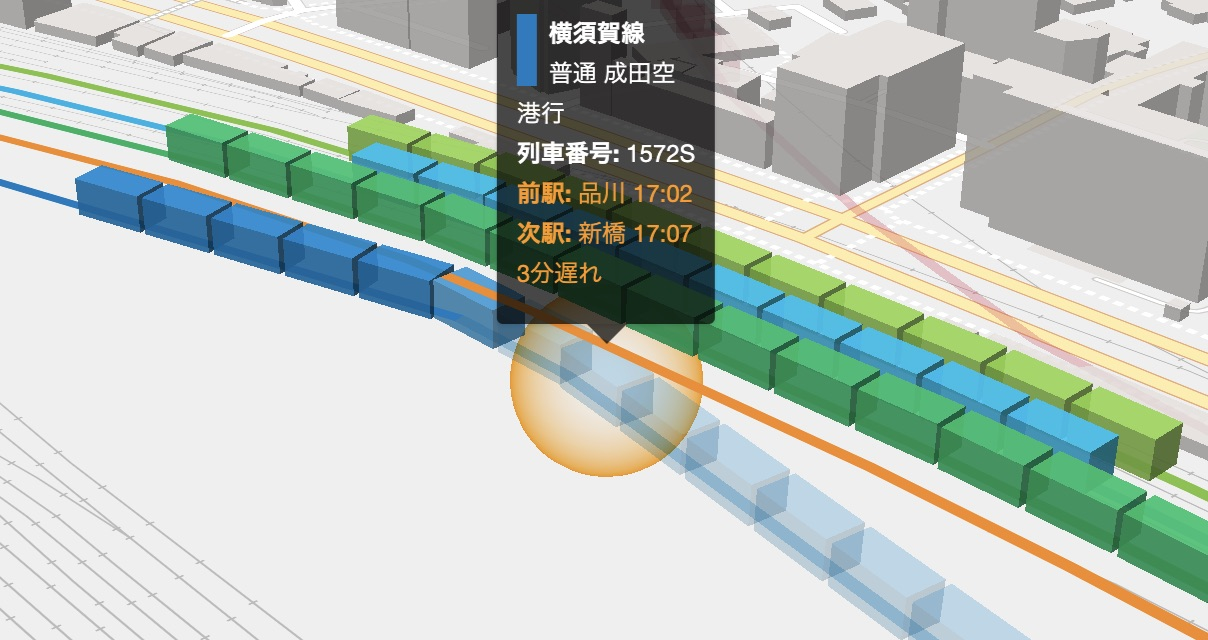
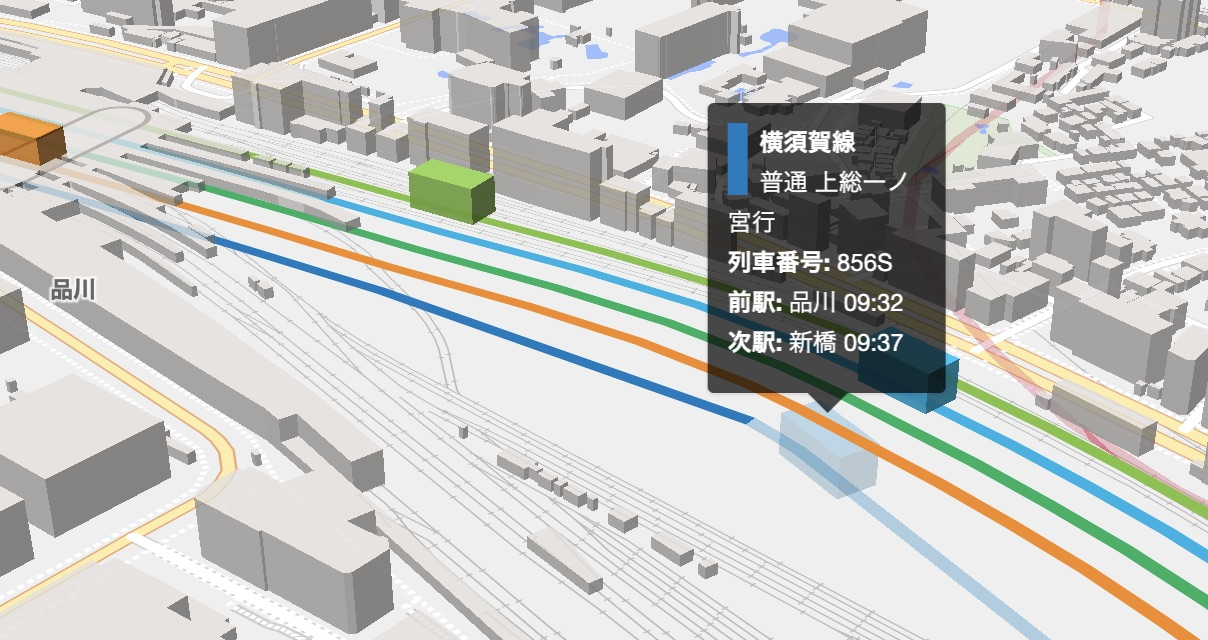
Update USER_GUIDE and screenshot images

diff --git a/USER_GUIDE-en.md b/USER_GUIDE-en.md
@@ -44,9 +44,7 @@ In addition to Japanese, Mini Tokyo 3D supports English, Chinese and Korean, whi
 
 <img src="images/reality.jpg" width="604">
 
-Fine tuning of the starting acceleration and maximum speed of the trains was done repeatedly by getting on them, so that they would move in the same way as the actual trains. A train composition changes according to the scale of the map so that it matches the actual train length, and if the scale is above a certain level, the actual number of vehicles obtained from real-time data feed is displayed. The underground tunnel sections of the overground railways and the overground sections of the subways are also completely reproduced.
-
-**[Updated on December 16, 2019]** As there was a possibility of conflict with existing patents, we disabled displaying of vehicles corresponding to the train length.
+Fine tuning of the starting acceleration and maximum speed of the trains was done repeatedly by getting on them, so that they would move in the same way as the actual trains. The underground tunnel sections of the overground railways and the overground sections of the subways are also completely reproduced.
 
 ### Switching Views Between Overground and Underground
 
@@ -75,7 +73,6 @@ You can move your location by panning the map with mouse drag or swipe on the sc
 ### Zooming-In/Out
 
 <img src="images/zoom.jpg" width="244"> <img src="images/zoom-icon.jpg" width="50" align="top">
-"50">
 
 Click or tap the “+” or “−” icon button to zoom in or out the map. You can also zoom in or out by rotating the mouse wheel or pinching in or out of the screen.
 
@@ -104,14 +101,6 @@ See [here](#tracking-mode) for details on tracking modes.
 <img src="images/clock.jpg" width="141">
 
 When [Real-Time Mode](#real-time-mode) is on, the current data and time is displayed at the top left of the screen. It is convenient when accessing from overseas because Japan standard time is always displayed.
-
-### Displaying Vehicle Composition by Zooming-In
-
-<img src="images/train-short.jpg" width="200"> <img src="images/train-long.jpg" width="600">
-
-As you zoom in on the map, you will see a number of connected vehicles based on the actual train vehicle composition. For example, the Yamanote Line has 11 vehicles and the Tokaido Line has 11 or 15 vehicles depending on the train. The number of vehicles is obtained from real-time data.
-
-**[Updated on December 16, 2019]** As there was a possibility of conflict with existing patents, we disabled displaying of vehicles corresponding to the train vehicle composition.
 
 ### Delayed Train
 
@@ -190,6 +179,7 @@ Based on real-time weather information, 8 levels of precipitation intensity are 
 This application uses the following data.
 
 - [Open Data Challenge for Public Transportation in Tokyo](https://tokyochallenge.odpt.org/en/)
+- [Mapbox](https://www.mapbox.com)
 - [OpenStreetMap](https://www.openstreetmap.org)
 - [Japan Meteorological Agency Precipitation Nowcast](https://www.jma.go.jp/en/radnowc/)
 
@@ -199,8 +189,8 @@ The source of the public transportation data in this application is the Open Dat
 
 This application has been tested with the following browsers. Chrome is recommended. Internet Explorer is not supported.
 
-- Chrome 78 (Mac OS, Windows)
-- FireFox 70 (Mac OS, Windows)
+- Chrome 79 (Mac OS, Windows)
+- FireFox 71 (Mac OS, Windows, iOS)
 - Safari 13 (Mac OS, iOS)
 - Edge 44 (Windows)
 

diff --git a/USER_GUIDE-ja.md b/USER_GUIDE-ja.md
@@ -44,9 +44,7 @@ Mini Tokyo 3D の特徴は次の通りです。
 
 <img src="images/reality.jpg" width="604">
 
-実際の列車と同じ動きになるように、乗車しながら列車の起動加速度や最高速度の微調整を繰り返しました。地図の縮尺に従って実際の列車長に見合った車両編成になるように切り替わり、一定以上の縮尺だとリアルタイムデータから得た実際の車両数を表示します。地上を走る列車の地下トンネル部分、地下鉄の地上走行区間も完全に再現しています。
-
-**[2019年12月16日更新]** 列車長に見合った車両の表示は、既存特許に抵触する可能性がありましたので、機能を無効化しています。
+実際の列車と同じ動きになるように、乗車しながら列車の起動加速度や最高速度の微調整を繰り返しました。地上を走る列車の地下トンネル部分、地下鉄の地上走行区間も完全に再現しています。
 
 ### 地上・地下の表示切り替え
 
@@ -103,14 +101,6 @@ Mini Tokyo 3D の特徴は次の通りです。
 <img src="images/clock.jpg" width="141">
 
 [リアルタイムモード](#%E3%83%AA%E3%82%A2%E3%83%AB%E3%82%BF%E3%82%A4%E3%83%A0%E3%83%A2%E3%83%BC%E3%83%89)がオンの状態では、画面左上に現在時刻が表示されます。常に日本時間が表示されるため、海外からのアクセス時に便利です。
-
-### ズームインによる車両編成の表示
-
-<img src="images/train-short.jpg" width="200"> <img src="images/train-long.jpg" width="600"> 
-
-地図を拡大していくと、実際の車両編成に基づいた数の連結された車両が表示されます。例えば山手線は11両、東海道線は列車により11両または15両です。車両数はリアルタイムデータから取得しています。
-
-**[2019年12月16日更新]** 車両編成に基づいた車両の表示は、既存特許に抵触する可能性がありましたので、機能を無効化しています。
 
 ### 遅延列車の表示
 
@@ -189,6 +179,7 @@ Mini Tokyo 3D の特徴は次の通りです。
 本アプリケーションは次のデータを利用しています。
 
 - [東京公共交通オープンデータチャレンジ](https://tokyochallenge.odpt.org)
+- [Mapbox](https://www.mapbox.com)
 - [OpenStreetMap](https://www.openstreetmap.org)
 - [気象庁降水ナウキャスト](https://www.jma.go.jp/jp/radnowc/)
 
@@ -198,8 +189,8 @@ Mini Tokyo 3D の特徴は次の通りです。
 
 次のブラウザで動作を確認しています。推奨は Chrome です。Internet Explorer には非対応です。
 
-- Chrome 78 (Mac OS, Windows)
-- FireFox 70 (Mac OS, Windows)
+- Chrome 79 (Mac OS, Windows)
+- FireFox 71 (Mac OS, Windows, iOS)
 - Safari 13 (Mac OS, iOS)
 - Edge 44 (Windows)
 
